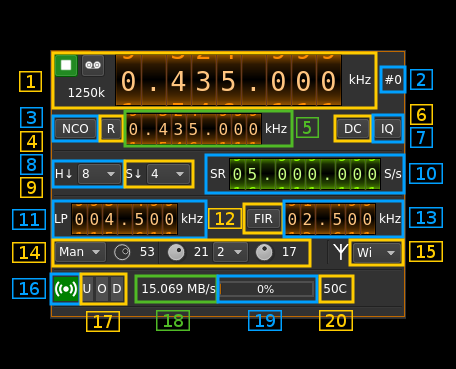
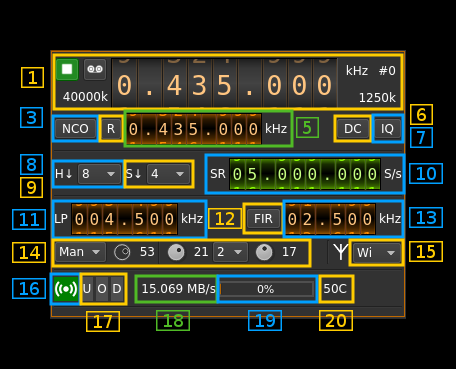
LimeSDR input: added DAC sample rate display

Changed region(s): [[0.0307, 0.1192, 0.9518, 0.2981], [0.0307, 0.3577, 0.0921, 0.4173]]

diff --git a/plugins/samplesource/limesdrinput/limesdrinputgui.cpp b/plugins/samplesource/limesdrinput/limesdrinputgui.cpp
@@ -244,6 +244,17 @@ void LimeSDRInputGUI::handleMessagesToGUI()
     }
 }
 
+void LimeSDRInputGUI::updateADCRate()
+{
+    uint32_t adcRate = m_settings.m_devSampleRate * (1<<m_settings.m_log2HardDecim);
+
+    if (adcRate < 100000000) {
+        ui->adcRateLabel->setText(tr("%1k").arg(QString::number(adcRate / 1000.0f, 'g', 5)));
+    } else {
+        ui->adcRateLabel->setText(tr("%1M").arg(QString::number(adcRate / 1000000.0f, 'g', 5)));
+    }
+}
+
 void LimeSDRInputGUI::updateSampleRateAndFrequency()
 {
     m_deviceAPI->getSpectrum()->setSampleRate(m_sampleRate);
@@ -261,6 +272,8 @@ void LimeSDRInputGUI::displaySettings()
 
     ui->hwDecim->setCurrentIndex(m_settings.m_log2HardDecim);
     ui->swDecim->setCurrentIndex(m_settings.m_log2SoftDecim);
+
+    updateADCRate();
 
     ui->lpf->setValue(m_settings.m_lpfBW / 1000);
 
@@ -456,6 +469,7 @@ void LimeSDRInputGUI::on_iqImbalance_toggled(bool checked)
 void LimeSDRInputGUI::on_sampleRate_changed(quint64 value)
 {
     m_settings.m_devSampleRate = value;
+    updateADCRate();
     setNCODisplay();
     sendSettings();}
 
@@ -464,6 +478,7 @@ void LimeSDRInputGUI::on_hwDecim_currentIndexChanged(int index)
     if ((index <0) || (index > 5))
         return;
     m_settings.m_log2HardDecim = index;
+    updateADCRate();
     setNCODisplay();
     sendSettings();
 }

diff --git a/plugins/samplesource/limesdrinput/limesdrinputgui.h b/plugins/samplesource/limesdrinput/limesdrinputgui.h
@@ -68,6 +68,7 @@ private:
     void setNCODisplay();
     void sendSettings();
     void updateSampleRateAndFrequency();
+    void updateADCRate();
     void blockApplySettings(bool block);
 
 private slots:

diff --git a/plugins/samplesource/limesdrinput/readme.md b/plugins/samplesource/limesdrinput/readme.md
@@ -35,7 +35,7 @@ Then add the following defines on `cmake` command line:
 
 <h3>1: Common stream parameters</h3>
 
-![SDR Daemon source input stream GUI](../../../doc/img/SDRdaemonSource_plugin_01.png)
+![SDR Daemon source input stream GUI](../../../doc/img/LimeSDRInput_plugin_1.png)
 
 <h4>1.1: Frequency</h4>
 
@@ -53,11 +53,15 @@ Device start / stop button.
 
 Record baseband I/Q stream toggle button
 
-<h4>1.4: Stream sample rate</h4>
+<h4>1.4: ADC sample rate</h4>
 
-Baseband I/Q sample rate in kS/s. This is the device sample rate (4) divided by the decimation factor (6). 
+This is the sample rate at which the ADC runs in kS/s (k) or MS/s (M) before hardware decimation (8). Thus this is the device to host sample rate (10) multiplied by the hardware decimation factor (8).
 
-<h3>2: Channel number</h3>
+<h4>1.5: Stream sample rate</h4>
+
+Baseband I/Q sample rate in kS/s. This is the device to host sample rate (10) divided by the software decimation factor (9). 
+
+<h4>1.6: Channel number</h4>
 
 LimeSDR is a 2x2 MIMO device so it has two receiving channels. This shows the corresponding Rx channel index (0 or 1).
 
@@ -94,9 +98,9 @@ Thus the actual sample rate of the ADC is the stream sample rate (10) multiplied
 
 The I/Q stream from the LimeSDR is doensampled by a power of two by software inside the plugin before being sent to the passband. Possible values are increasing powers of two: 1 (no decimation), 2, 4, 8, 16, 32.
 
-<h3>10: Device stream sample rate</h3>
+<h3>10: Device to host stream sample rate</h3>
 
-This is the LMS7002M device to/from host stream sample rate in S/s.
+This is the LMS7002M device to/from host stream sample rate in S/s. It is the same for the Rx and Tx systems.
 
 Use the wheels to adjust the sample rate. Pressing shift simultanoeusly moves digit by 5 and pressing control moves it by 2. Left click on a digit sets the cursor position at this digit. Right click on a digit sets all digits on the right to zero. This effectively floors value at the digit position. Wheels are moved with the mousewheel while pointing at the wheel or by selecting the wheel with the left mouse click and using the keyboard arroews.
 

diff --git a/plugins/samplesink/limesdroutput/readme.md b/plugins/samplesink/limesdroutput/readme.md
@@ -87,9 +87,9 @@ Thus the actual sample rate of the DAC is the stream sample rate (10) multiplied
 
 The I/Q stream from the baseband is upsampled by a power of two by software inside the plugin before being sent to the LimeSDR device. Possible values are increasing powers of two: 1 (no interpolation), 2, 4, 8, 16, 32.
 
-<h3>10: Device stream sample rate</h3>
+<h3>10: Host to device stream sample rate</h3>
 
-This is the LMS7002M device to/from host stream sample rate in S/s.
+This is the LMS7002M device to/from host stream sample rate in S/s. It is the same for the Rx and Tx systems.
 
 Use the wheels to adjust the sample rate. Pressing shift simultanoeusly moves digit by 5 and pressing control moves it by 2. Left click on a digit sets the cursor position at this digit. Right click on a digit sets all digits on the right to zero. This effectively floors value at the digit position. Wheels are moved with the mousewheel while pointing at the wheel or by selecting the wheel with the left mouse click and using the keyboard arroews.
 
